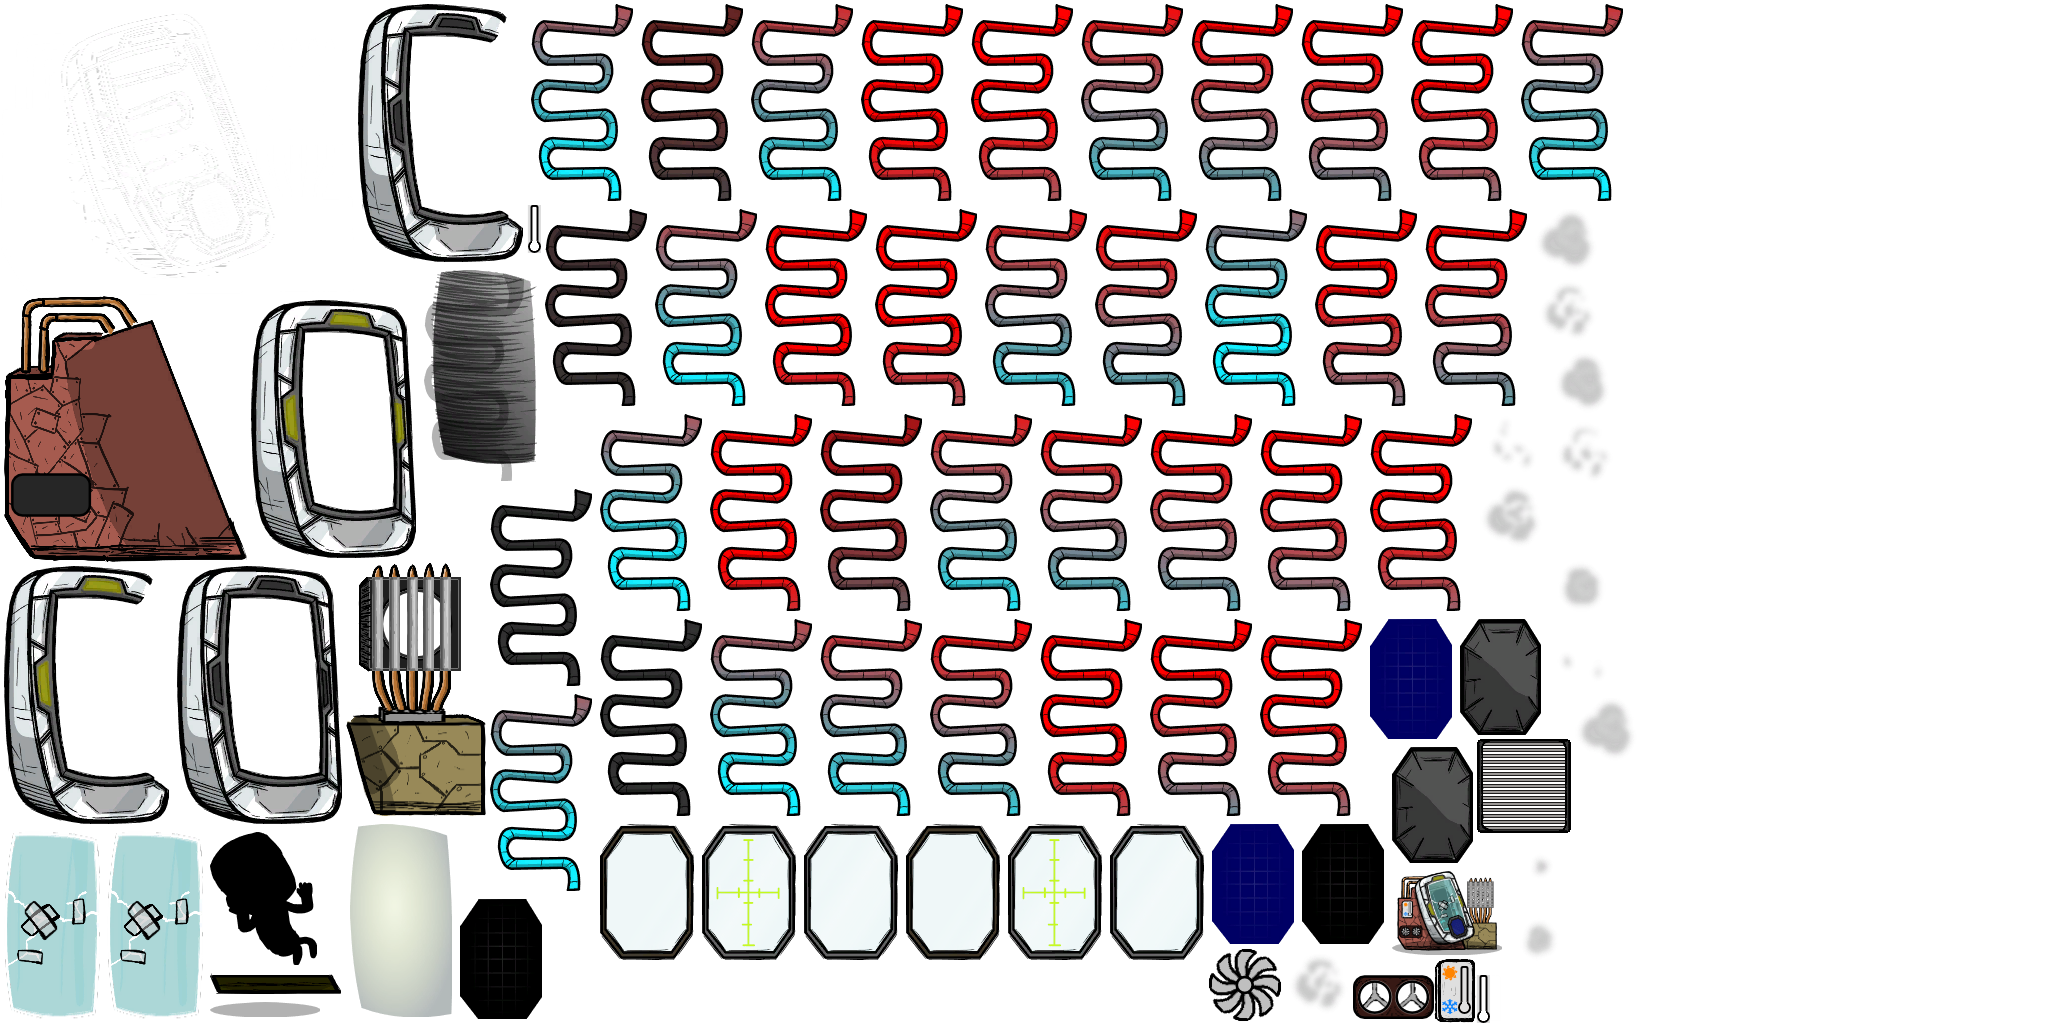
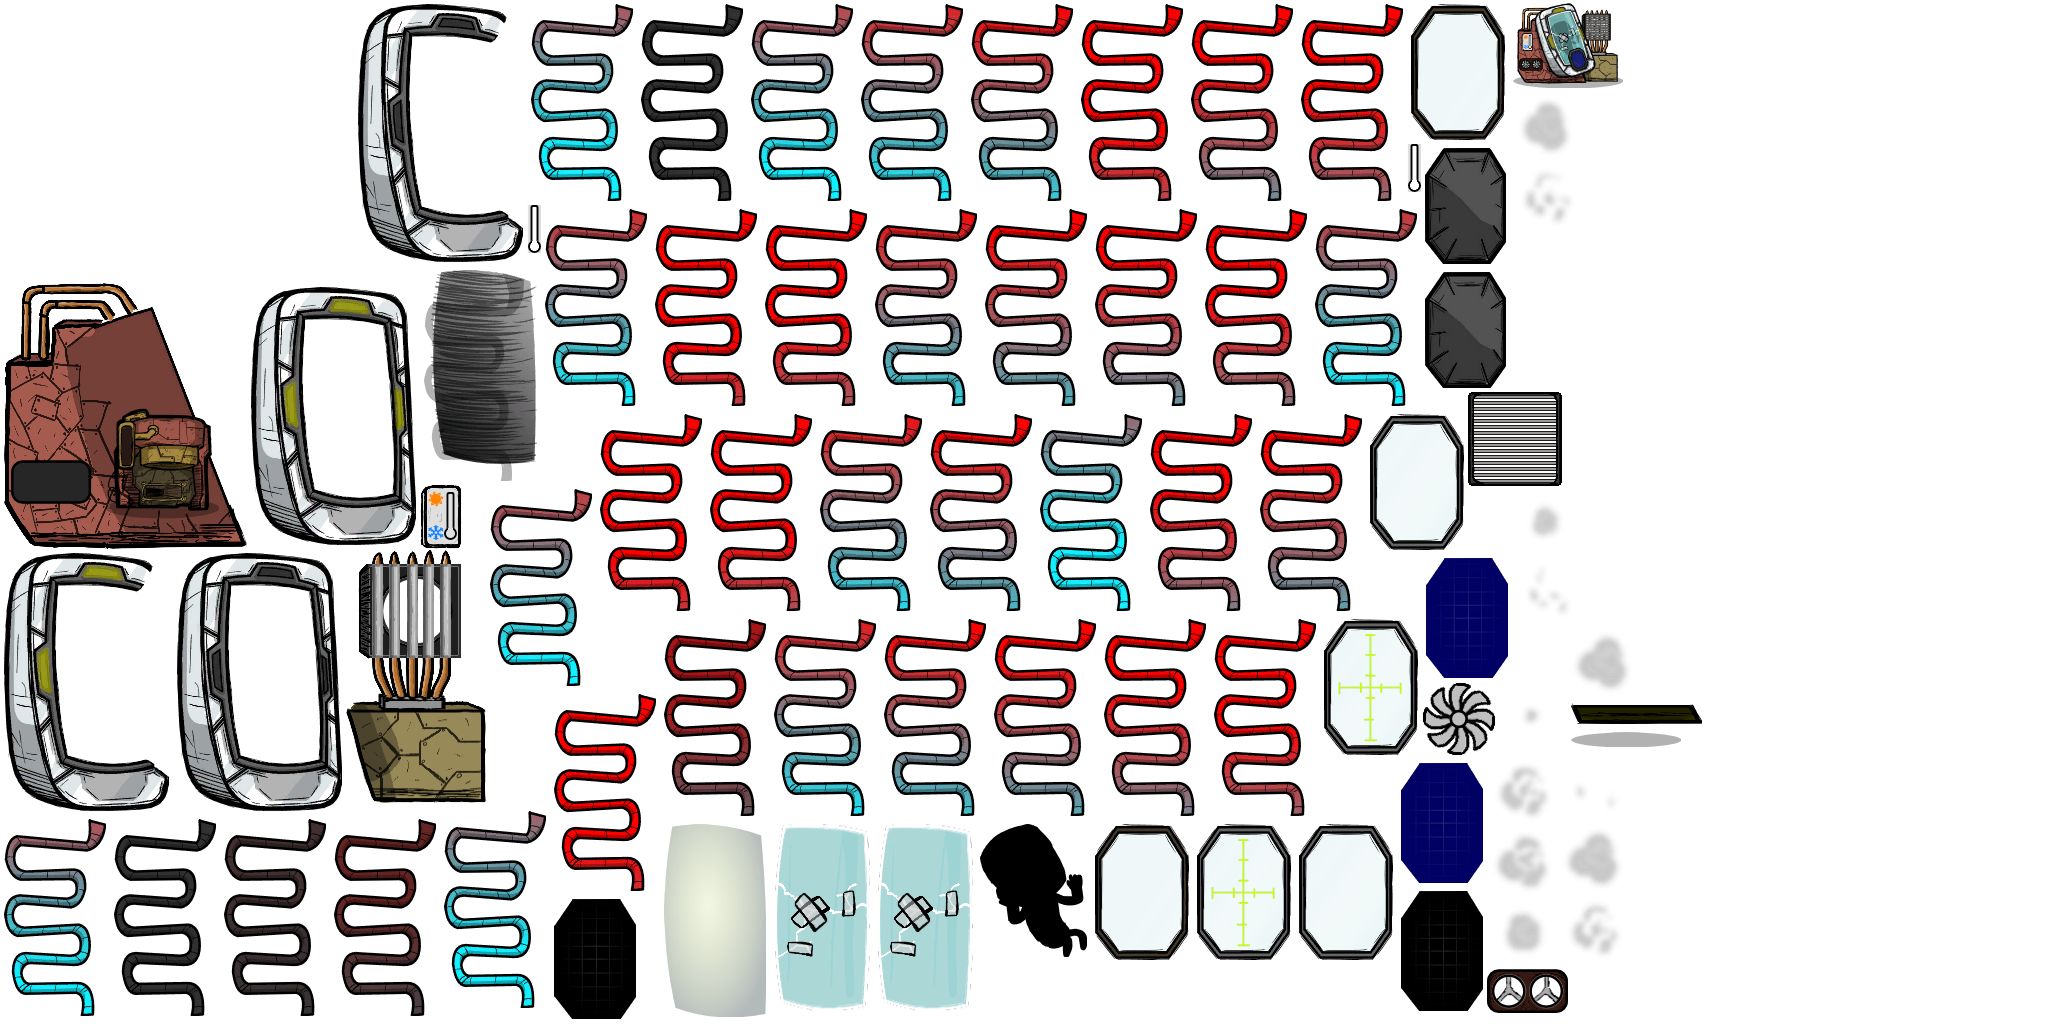
Liquid Variant has now radiator heat diffusal; final animations

Changed region(s): [[0.0, 0.0, 0.8438, 1.0]]

diff --git a/Cryopod/Buildings/CryopodLiquidPortAddon.cs b/Cryopod/Buildings/CryopodLiquidPortAddon.cs
@@ -4,44 +4,126 @@ using System.Collections.Generic;
 using System.Linq;
 using System.Text;
 using System.Threading.Tasks;
+using UnityEngine;
 
 namespace Cryopod.Buildings
 {
     
-    class CryopodLiquidPortAddon : KMonoBehaviour, ISim200ms
+    class CryopodLiquidPortAddon : KMonoBehaviour, ISim200ms, ISaveLoadable, IBridgedNetworkItem
     {
-        [MyCmpGet] private Storage storage;
-        [Serialize] private float heatToThrowOut;
+        [Serialize]
+        public Storage storage;
 
-        public void AddHeatToLiquid(float heatAmount)
+        private int inputCell;
+        private int outputCell;
+        private HandleVector<int>.Handle accumulator = HandleVector<int>.InvalidHandle;
+        public MeterController meter_liquid { get; private set; }
+
+
+        protected override void OnSpawn()
         {
-            heatToThrowOut += heatAmount;
+            base.OnSpawn();
+            this.meter_liquid = new MeterController(this.GetComponent<KBatchedAnimController>(), "liquid_meter_target", nameof(meter_liquid), Meter.Offset.Infront, Grid.SceneLayer.NoLayer, Array.Empty<string>());
+            this.meter_liquid.SetPositionPercent(0f);
+
+            var building = GetComponent<Building>();
+            inputCell = building.GetUtilityInputCell();
+            outputCell = building.GetUtilityOutputCell();
+
+            Conduit.GetFlowManager(type).AddConduitUpdater(ConduitUpdate);
+        }
+        protected override void OnPrefabInit()
+        {
+            base.OnPrefabInit();
+            accumulator = Game.Instance.accumulators.Add("Flow", this);
+        }
+        protected override void OnCleanUp()
+        {
+            Conduit.GetFlowManager(type).RemoveConduitUpdater(ConduitUpdate);
+            Game.Instance.accumulators.Remove(accumulator);
+            base.OnCleanUp();
+        }
+
+        public void ConduitUpdate(float dt)
+        {
+            var flowManager = Conduit.GetFlowManager(type);
+            if (!flowManager.HasConduit(inputCell)) return;
+            var contents = flowManager.GetContents(inputCell);
+            if (contents.mass <= 0f) return;
+            var panel_mat = gameObject.GetComponent<PrimaryElement>();
+            var element = ElementLoader.FindElementByHash(contents.element);
+
+            var deltaheat = conductive_heat( panel_mat.Element, panel_mat.Temperature, element, contents.temperature, 7);
+            // heat change = mass * specific heat capacity * temp change        
+            var deltatemp_panel = -deltaheat / BuildableCryopodLiquidConfig.MetalCost / panel_mat.Element.specificHeatCapacity * dt;
+            var deltatemp_liquid = deltaheat / contents.mass / element.specificHeatCapacity * dt;
+
+            var panel_newtemp = panel_mat.Temperature + deltatemp_panel;
+            var liquid_newtemp = contents.temperature + deltatemp_liquid;
+
+            if (panel_mat.Temperature > contents.temperature)
+            {
+                panel_newtemp = Math.Max(panel_newtemp, contents.temperature);
+                liquid_newtemp = Math.Min(liquid_newtemp, panel_mat.Temperature);
+            }
+            else
+            {
+                panel_newtemp = Math.Min(panel_newtemp, contents.temperature);
+                liquid_newtemp = Math.Max(liquid_newtemp, panel_mat.Temperature);
+            }
+
+            var delta = flowManager.AddElement(outputCell, contents.element, contents.mass, liquid_newtemp,
+                contents.diseaseIdx, contents.diseaseCount);
+            panel_mat.Temperature = panel_newtemp;
+            if (delta <= 0f) return;
+            flowManager.RemoveElement(inputCell, delta);
+            Game.Instance.accumulators.Accumulate(accumulator, contents.mass);
+        }
+        private static float conductive_heat(Element from, float from_temp, Element panel_material, float panel_temp, float area)
+        {
+            var conductivity = Math.Min(from.thermalConductivity, panel_material.thermalConductivity);
+            return conductivity * area * (from_temp - panel_temp) * 1f;
         }
 
         public void Sim200ms(float dt)
         {
-            if (storage.MassStored() > 0.5f )
-            {
-                var contents = storage.GetItems().First().GetComponent<PrimaryElement>();
-                var element = ElementLoader.FindElementByHash(contents.ElementID);
-                var tempDelta = heatToThrowOut / contents.Mass / element.specificHeatCapacity;
-                if (tempDelta != float.NaN) 
-                {   if((contents.Temperature + tempDelta)>0f && (contents.Temperature + tempDelta )< Sim.MaxTemperature) {
-                        //Debug.Log(contents.Temperature + tempDelta);
-                        contents.Temperature = contents.Temperature + tempDelta;
-                    }
-                }
-                heatToThrowOut = 0;
-            }
-            if (storage.MassStored() > 49f)
-            {
-                this.GetComponent<ConduitDispenser>().isOn = true;
-            }
-            else
-            {
-                this.GetComponent<ConduitDispenser>().isOn = false;
+            ////if (inStorage.MassStored() <= 0f)
+            ////    operational.SetActive(false);
+            ////else//
+            //this.meter_liquid.SetPositionPercent(Mathf.Clamp01(storage.MassStored() / 50));
+            //if (storage.MassStored() > 0f)
+            //{
+            //    var contents = storage.GetItems().First().GetComponent<PrimaryElement>();
+            //    var element = ElementLoader.FindElementByHash(contents.ElementID);
+            //    meter_liquid.SetSymbolTint(new KAnimHashedString("meter_fill_liquid"), element.substance.colour);
+            //}
+        }
 
-            }
+
+        public ConduitType type = ConduitType.Liquid;
+        public void AddNetworks(ICollection<UtilityNetwork> networks)
+        {
+            var networkManager = Conduit.GetNetworkManager(type);
+            var networkForCell1 = networkManager.GetNetworkForCell(inputCell);
+            if (networkForCell1 != null)
+                networks.Add(networkForCell1);
+            var networkForCell2 = networkManager.GetNetworkForCell(outputCell);
+            if (networkForCell2 == null)
+                return;
+            networks.Add(networkForCell2);
+        }
+
+        public bool IsConnectedToNetworks(ICollection<UtilityNetwork> networks)
+        {
+            var flag = false;
+            var networkManager = Conduit.GetNetworkManager(type);
+            return flag || networks.Contains(networkManager.GetNetworkForCell(inputCell)) ||
+                   networks.Contains(networkManager.GetNetworkForCell(outputCell));
+        }
+
+        public int GetNetworkCell()
+        {
+            return inputCell;
         }
     }
 }

diff --git a/Cryopod/Buildings/BuildableCryopodLiquidConfig.cs b/Cryopod/Buildings/BuildableCryopodLiquidConfig.cs
@@ -11,11 +11,12 @@ namespace Cryopod.Buildings
     class BuildableCryopodLiquidConfig : IBuildingConfig
     {
         public const string ID = "CRY_BuildableCryoTankLiquid";
+        public const float MetalCost = 800f;
 
         public override BuildingDef CreateBuildingDef()
         {
             float[] mass = {
-                800f,
+                MetalCost,
                 200f,
                 200f,
             };
@@ -46,8 +47,8 @@ namespace Cryopod.Buildings
 
             buildingDef.InputConduitType = ConduitType.Liquid;
             buildingDef.OutputConduitType = ConduitType.Liquid;
-            buildingDef.UtilityInputOffset = new CellOffset(2, 0);
-            buildingDef.UtilityOutputOffset = new CellOffset(2, 1);
+            buildingDef.UtilityInputOffset = new CellOffset(2, 2);
+            buildingDef.UtilityOutputOffset = new CellOffset(2, 0);
 
             return buildingDef;
         }
@@ -55,11 +56,15 @@ namespace Cryopod.Buildings
         {
             UnityEngine.Object.DestroyImmediate(go.GetComponent<BuildingEnabledButton>());
             go.GetComponent<KPrefabID>().AddTag(GameTags.NotRocketInteriorBuilding);
-            AddLiquidStuff(go);
         }
 
         public override void DoPostConfigureComplete(GameObject go)
         {
+            UnityEngine.Object.DestroyImmediate(go.GetComponent<RequireInputs>());
+            UnityEngine.Object.DestroyImmediate(go.GetComponent<RequireOutputs>());
+            UnityEngine.Object.DestroyImmediate(go.GetComponent<ConduitConsumer>());
+            UnityEngine.Object.DestroyImmediate(go.GetComponent<ConduitDispenser>());
+
             var ownable = go.AddOrGet<Ownable>();
             ownable.tintWhenUnassigned = false;
             ownable.slotID = Db.Get().AssignableSlots.WarpPortal.Id;
@@ -73,21 +78,6 @@ namespace Cryopod.Buildings
             go.AddOrGet<CryopodFreezeWorkable>(); 
             go.AddOrGet<OpenCryopodWorkable>(); 
             go.AddOrGet<Prioritizable>();
-        }
-        private void AddLiquidStuff(GameObject go)
-        {
-            Storage storage = go.AddOrGet<Storage>();
-            storage.showInUI = true; //False for release
-            storage.SetDefaultStoredItemModifiers(Storage.StandardSealedStorage);
-            ConduitConsumer conduitConsumer = go.AddOrGet<ConduitConsumer>();
-            conduitConsumer.capacityKG = 60f;
-            conduitConsumer.conduitType = ConduitType.Liquid;
-            conduitConsumer.wrongElementResult = ConduitConsumer.WrongElementResult.Dump;
-            conduitConsumer.storage = storage;
-            ConduitDispenser conduitDispenser = go.AddOrGet<ConduitDispenser>();
-            conduitDispenser.conduitType = ConduitType.Liquid;
-            conduitDispenser.storage = storage;
-            conduitDispenser.isOn = false;
         }
         
     }    

diff --git a/Cryopod/Buildings/CryopodReusable.cs b/Cryopod/Buildings/CryopodReusable.cs
@@ -351,40 +351,23 @@ namespace Cryopod.Buildings
 			}
 
 			public void ApplyCoolingExhaust(float dt,bool coolingExterior =false) {
-
-				if (smi.master.buildingeMode == BuildingeMode.Standalone)
-				{
-					var element = gameObject.GetComponent<PrimaryElement>();
-					if(element.Temperature>15 && element.Temperature < 2000f) { 
+				
+				var element = gameObject.GetComponent<PrimaryElement>();
+				if(element.Temperature>15 && element.Temperature < 2000f) { 
 					if (coolingExterior)
-						{
+					{
 						GameComps.StructureTemperatures.ProduceEnergy(this.structureTemperature, this.coolingHeatKW * 0.8f * dt, (string)BUILDING.STATUSITEMS.OPERATINGENERGY.FOOD_TRANSFER, dt);
-						}
-
-                    else
-						{
-						GameComps.StructureTemperatures.ProduceEnergy(this.structureTemperature, this.coolingHeatKW * dt, (string)BUILDING.STATUSITEMS.OPERATINGENERGY.FOOD_TRANSFER, dt);
-						}
 					}
-				}
-				else if (smi.master.buildingeMode == BuildingeMode.Piped)
-				{
-					var liquidHandler = GetComponent<CryopodLiquidPortAddon>();
-					liquidHandler.AddHeatToLiquid(this.coolingHeatKW * dt);
+					
+					else
+					{
+						GameComps.StructureTemperatures.ProduceEnergy(this.structureTemperature, this.coolingHeatKW * dt, (string)BUILDING.STATUSITEMS.OPERATINGENERGY.FOOD_TRANSFER, dt);
+					}
 				}
 			}
 			public void ApplySteadyExhaust(float dt)
 			{
-
-				if (smi.master.buildingeMode == BuildingeMode.Standalone)
-				{
-					GameComps.StructureTemperatures.ProduceEnergy(this.structureTemperature, this.steadyHeatKW * dt, (string)BUILDING.STATUSITEMS.OPERATINGENERGY.FOOD_TRANSFER, dt);
-				}
-				else if (smi.master.buildingeMode == BuildingeMode.Piped)
-				{
-					var liquidHandler = GetComponent<CryopodLiquidPortAddon>();
-					liquidHandler.AddHeatToLiquid(this.steadyHeatKW * dt);
-				}
+				GameComps.StructureTemperatures.ProduceEnergy(this.structureTemperature, this.steadyHeatKW * dt, (string)BUILDING.STATUSITEMS.OPERATINGENERGY.FOOD_TRANSFER, dt);
 			}
 			public float GetSaverPower() => this.GetComponent<EnergyConsumer>().WattsNeededWhenActive/5;
 
